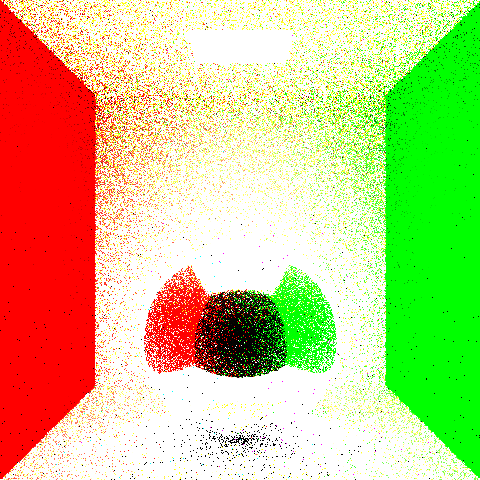
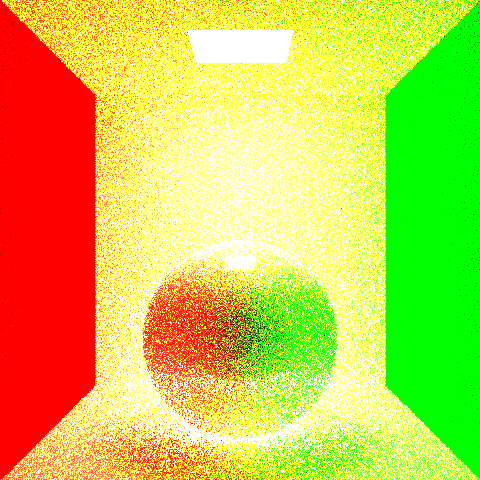
Even warmer

diff --git a/src/raytracer.cpp b/src/raytracer.cpp
@@ -1048,12 +1048,12 @@ glm::vec3 PathTracerFindColor(UniformGrid* grid, const Ray& ray, Scene* scene, C
 	glm::vec3 wo = glm::normalize(ray.origin - intersection.intersectionPoint);
 	glm::vec3 wi = glm::normalize(w_i);
 
-	glm::vec3 R = glm::reflect(-wi, intersection.hitObjectNormal);
-	float spec = std::pow(std::max(glm::dot(R, wo), 0.0f), intersection.hitObjectShininess);
+	glm::vec3 R = glm::reflect(-wo, intersection.hitObjectNormal);
+	float spec = std::pow(std::max(glm::dot(R, wi), 0.0f), intersection.hitObjectShininess);
 
 
 	float pdf = 0.0f;
-	float cosTheta = std::max(glm::dot(intersection.hitObjectNormal, wi), 0.0f);
+	//float cosTheta = std::max(glm::dot(intersection.hitObjectNormal, wi), 0.0f);
 	glm::vec3 brdf;
 	float xi0 = RandFloat();
 	float xi1 = RandFloat();
@@ -1085,7 +1085,7 @@ glm::vec3 PathTracerFindColor(UniformGrid* grid, const Ray& ray, Scene* scene, C
 		float pDiffuse = 1.0f - pSpec;
 
 		z = RandFloat();
-		float gamma = glm::acos(glm::pow(z, 1 / (intersection.hitObjectShininess + 1)));
+		float gamma = glm::acos(glm::pow(z, 1.0 / (intersection.hitObjectShininess + 1.0)));
 		float phi_gamma = 2.0f * (float)M_PI * RandFloat();
 
 		glm::vec3 wo = glm::normalize(ray.origin - intersection.intersectionPoint);
@@ -1108,7 +1108,7 @@ glm::vec3 PathTracerFindColor(UniformGrid* grid, const Ray& ray, Scene* scene, C
 		if (xi0 <= t)
 		{
 			brdf =
-				t * (intersection.hitObjectSpecular * ((intersection.hitObjectShininess + 2.0f) / (2.0f * (float)M_PI)) * spec);
+				(intersection.hitObjectSpecular * ((intersection.hitObjectShininess + 2.0f) / (2.0f * (float)M_PI)) * spec);
 
 			float phi = 2.0f * (float)M_PI * xi2;
 
@@ -1119,9 +1119,6 @@ glm::vec3 PathTracerFindColor(UniformGrid* grid, const Ray& ray, Scene* scene, C
 			s.x = glm::cos(phi) * glm::sin(theta_specular);
 			s.y = glm::sin(phi) * glm::sin(theta_specular);
 			s.z = glm::cos(theta_specular);
-
-			glm::vec3 w_i = s.x * u + s.y * v + s.z * w;
-
 
 			glm::vec3 w = glm::normalize(R);
 			glm::vec3 helper = (std::abs(w.y) < 0.999f) ? glm::vec3(0, 1, 0) : glm::vec3(1, 0, 0);
@@ -1154,14 +1151,14 @@ glm::vec3 PathTracerFindColor(UniformGrid* grid, const Ray& ray, Scene* scene, C
 			float phi = 2.0f * (float)M_PI * xi2;
 
 			float theta_diffuse = glm::acos(glm::sqrt(xi1));
-			float theta_specular = glm::acos(glm::pow(xi1, 1.0 / (intersection.hitObjectShininess + 1)));
+			float theta_specular = glm::acos(glm::pow(xi1, 1.0 / (intersection.hitObjectShininess + 1.0)));
 
-			glm::vec3 s = glm::vec3(0.0f);
-			s.x = glm::cos(phi) * glm::sin(theta_diffuse);
-			s.y = glm::sin(phi) * glm::sin(theta_diffuse);
-			s.z = glm::cos(theta_diffuse);
+			glm::vec3 n = glm::normalize(intersection.hitObjectNormal);
+			glm::vec3 helperN = (std::abs(n.y) < 0.999f) ? glm::vec3(0, 1, 0) : glm::vec3(1, 0, 0);
+			glm::vec3 uN = glm::normalize(glm::cross(helperN, n));
+			glm::vec3 vN = glm::cross(n, uN);
 
-			w_i = s.x * u + s.y * v + s.z * w;
+			w_i = s.x * uN + s.y * vN + s.z * n;
 
 			secondaryRay = Ray(intersection.intersectionPoint + intersection.hitObjectNormal * 0.001f, glm::normalize(w_i));
 			secondaryIntersection = FindIntersection(grid, scene, secondaryRay, false);
@@ -1170,13 +1167,6 @@ glm::vec3 PathTracerFindColor(UniformGrid* grid, const Ray& ray, Scene* scene, C
 
 			R = glm::reflect(-wo, intersection.hitObjectNormal);
 			float spec = std::pow(std::max(glm::dot(R, wi), 0.0f), intersection.hitObjectShininess);
-
-			glm::vec3 w = glm::normalize(R);
-			glm::vec3 helper = (std::abs(w.y) < 0.999f) ? glm::vec3(0, 1, 0) : glm::vec3(1, 0, 0);
-			glm::vec3 u = glm::normalize(glm::cross(helper, w));
-			glm::vec3 v = glm::cross(w, u);
-
-			glm::vec3 w_i = s.x * u + s.y * v + s.z * w;
 
 			brdf =
 				(intersection.hitObjectDiffuse / (float)M_PI) +
@@ -1224,14 +1214,9 @@ glm::vec3 PathTracerFindColor(UniformGrid* grid, const Ray& ray, Scene* scene, C
 			float pSpec = (sum > 0.0f) ? (ksAvg / sum) : 0.0f;
 			float pDiffuse = 1.0f - pSpec;
 
-			float pdf = pDiffuse * pdfDiffuse + pSpec * pdfSpec;
+			pdf = pDiffuse * pdfDiffuse + pSpec * pdfSpec;
 
-			if (pdf <= 1e-8f || cosTheta <= 0.0f)
-			{
-				return accumCol;
-			}
-
-			throughput *= brdf * cosTheta / pdf;
+			throughput *= brdf / pdf;
 		}
 
 		float q = 1.0f - std::min(std::max(throughput.r, std::max(throughput.g, throughput.b)), 1.0f);
